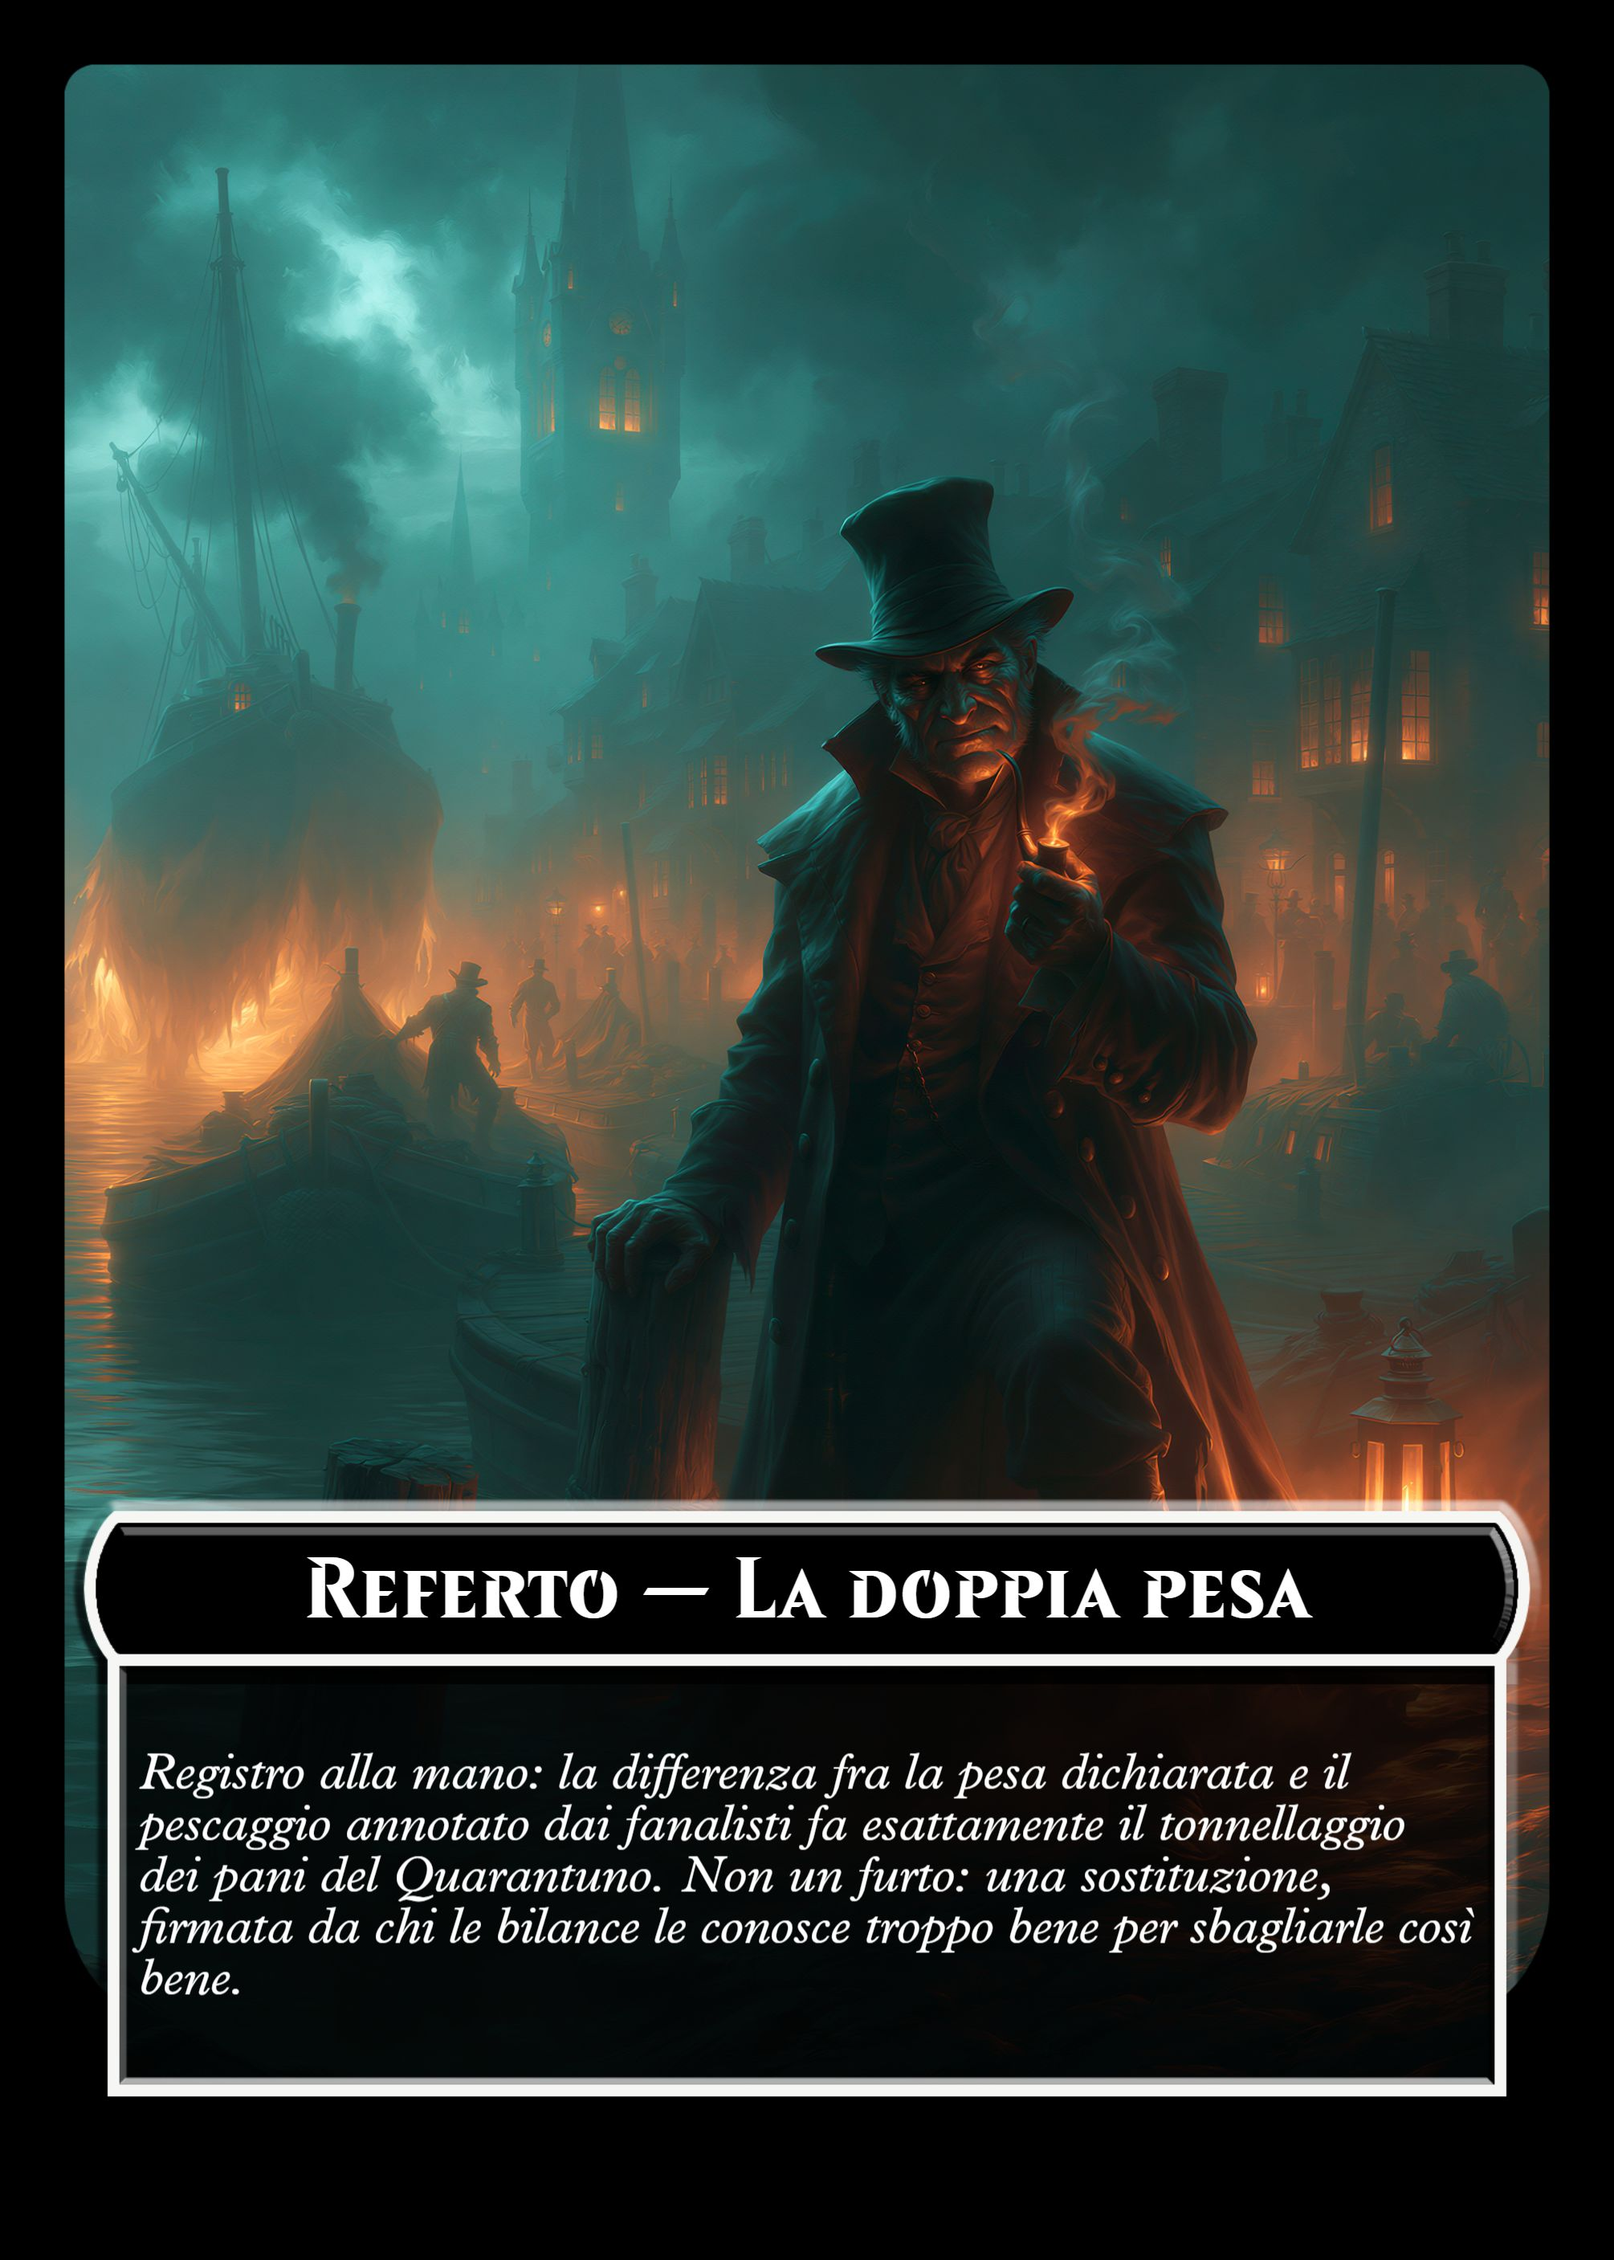
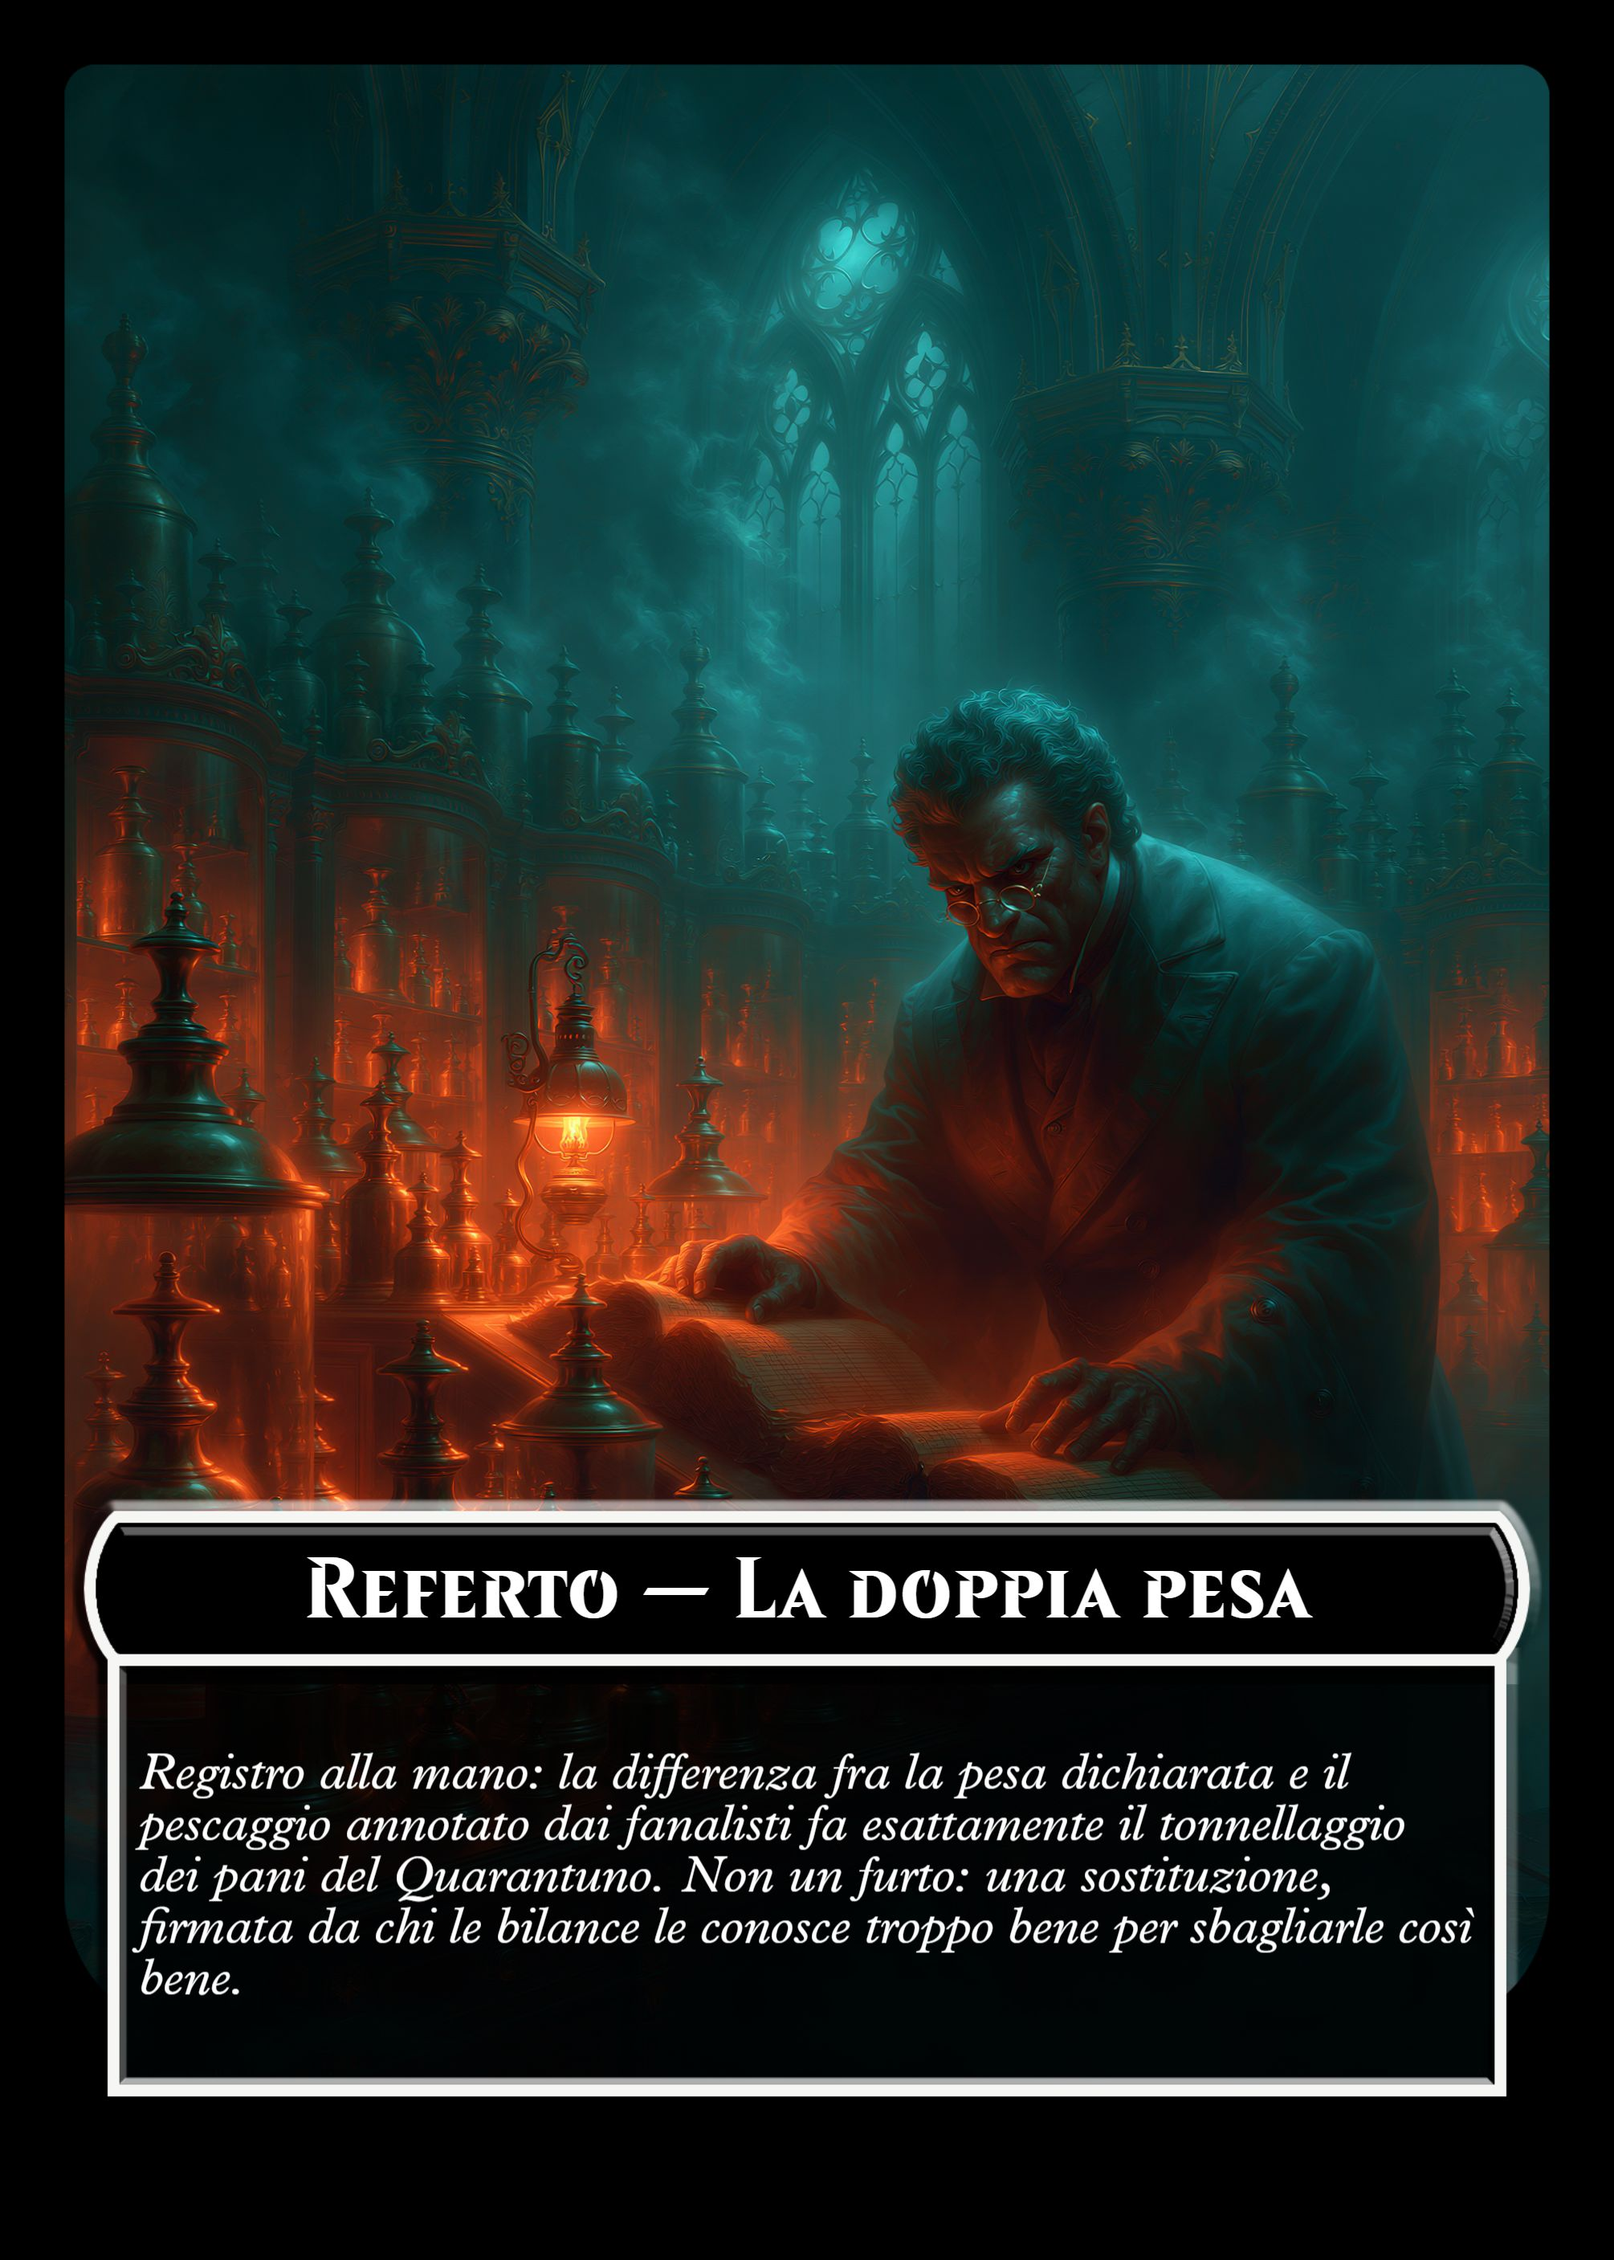
fix(indagine): tolte le tre etichette «sblocca il Luogo N» dagli indizi
Erano le uniche tre in tutta la campagna (Ep.1 L2 e L3, Preludio P2): gli
episodi 2-20 non ne hanno nessuna. Impalcatura da tutorial rimasta indietro.

Pre-risolvevano meta' del puzzle. La regola Bussare chiede al gruppo di
DEDURRE quale indizio e' una chiave e quale porta apre, poi di dichiararlo
(sbagliare costa un'ora); l'etichetta rispondeva a entrambe le domande prima
che qualcuno pensasse. L'Ep.1 era anche incoerente con se stesso: quattro
luoghi chiusi (L4 «Tonio», L5 la corda, L6 «chiatta», L7 «sommerso») e
l'etichetta solo su due.

Niente va perso, perche' l'informazione c'e' gia' tre volte, ognuna al posto
giusto:
- il `req=` del luogo chiuso dice cosa serve, dal lato della porta — «si
  allontana solo se vi vede portare con voi qualcosa che sembra suo» (L5),
  «aspetta che gli diciate la parola giusta, quella sentita altrove, tra un
  bicchiere e l'altro» (L6);
- la carta Oggetto «Corda di Violino d'Argento» ha come effetto «una corda
  cosi' la vende una sola bottega — e qualcuno, li', potrebbe volerla
  indietro»;
- chi arbitra legge la chiave sulla propria carta-luogo, riga «si entra con
  la parola «dogana» — solo per chi arbitra», che resta.

Al loro posto, un gesto che porta lo stesso peso senza nominare la meccanica:
Bice che tiene la corda «con due dita, come si tocca la roba di un altro»;
l'oste che abbassa la voce sulla parola «chiatta»; quello del Preludio che la
ripete piano «come per farvela imparare».
[…]

diff --git a/src/gen_cards.py b/src/gen_cards.py
@@ -169,7 +169,7 @@ LUOGHI = [
          testo='Bice, la sorella, vi apre con gli occhi rossi: «Negli ultimi tempi diceva di sentire '
                'musica sotto il pavimento della cripta. E aveva paura del suo stesso campanile.»',
          indizi=['Sul tavolo, una corda di violino d’argento: «L’ha trovata in cripta», dice Bice. '
-                 '<i>(Oggetto: sblocca il Luogo 5.)</i>',
+                 'La prende in mano con due dita, come si tocca la roba di un altro.',
                  'Bice, esitante: «Diceva anche una cosa strana — che solo un diapason d’argento, fatto '
                  'vibrare vicino a <i>quello che canta</i>, può farlo tacere per un momento. Diceva che '
                  'Ferri ne teneva uno, in bottega.»',
@@ -188,7 +188,7 @@ LUOGHI = [
          testo='Fumo, vino cattivo e barcaioli. Qui le lingue si sciolgono con poco.',
          indizi=['Ugo il barcaiolo: «Tre notti fa una chiatta senza lanterne ha scaricato casse al '
                  'Canale Basso. Alle 3, proprio mentre le campane suonavano da sole.» '
-                 '<i>(Parola chiave: sblocca il Luogo 6.)</i>',
+                 'Abbassa la voce sulla parola «chiatta», come se pesasse più delle altre.',
                  'Un avventore ubriaco: «Vicino ai vecchi magazzini c’è puzza di cera bruciata da settimane.»',
                  'L’oste conferma: Tonio il sagrestano era qui a giocare a carte fino all’alba, '
                  'la notte della scomparsa.',

diff --git a/src/gen_preludio.py b/src/gen_preludio.py
@@ -131,7 +131,7 @@ LUOGHI_P = [
                'sono una storia.',
          indizi=['L’oste: «Tre uomini da molo, tre sere di fila, sempre quel tavolo: guardavano il '
                  'vostro portone. Uno ha detto una parola che qui non si usa: la dogana vecchia.» '
-                 '<i>(Parola chiave: sblocca il Luogo P4.)</i>',
+                 'E la ripete piano, come per farvela imparare: «la dogana».',
                  'Il nipote di Ansaldo ha litigato col vecchio la settimana scorsa, per soldi: metà '
                  'taverna li ha sentiti. Da allora il ragazzo non si è più visto.',
                  'Dopo le 21:00 arriva il barcaiolo della Chiatta: prima di quell’ora è in acqua. '
